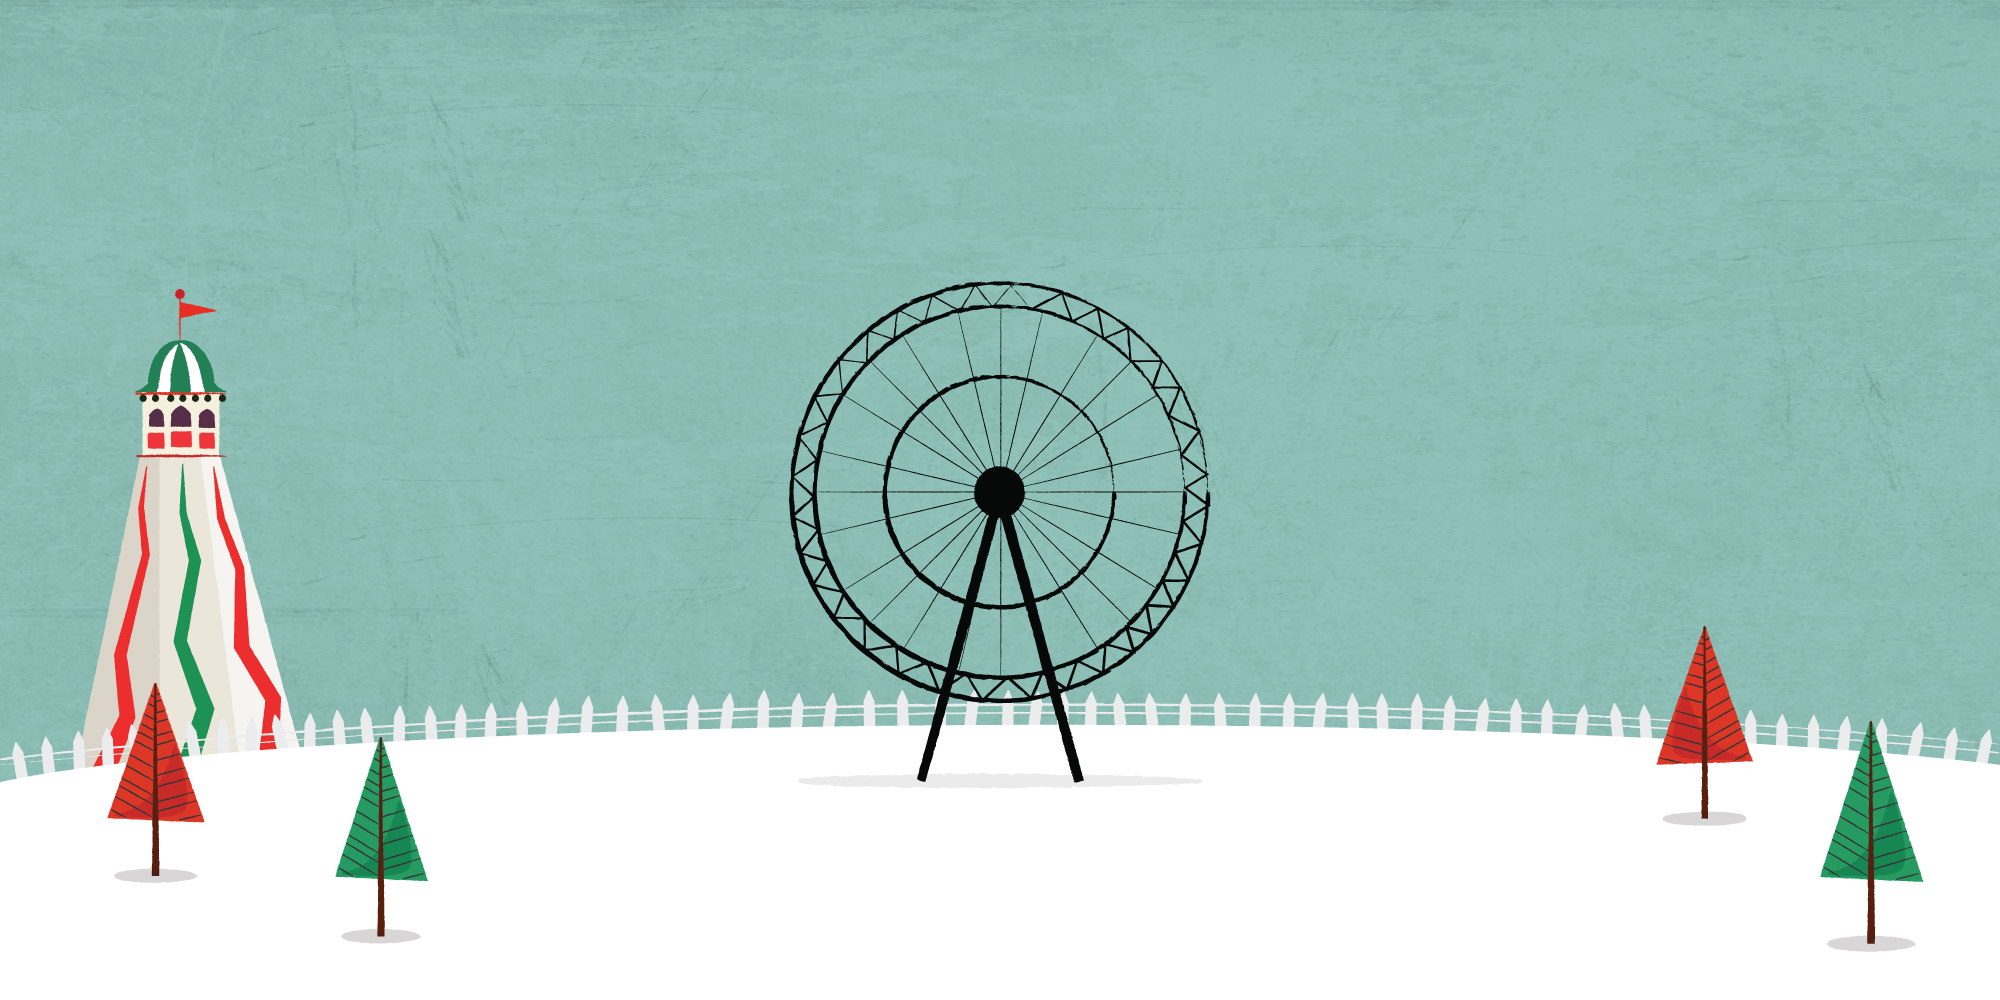
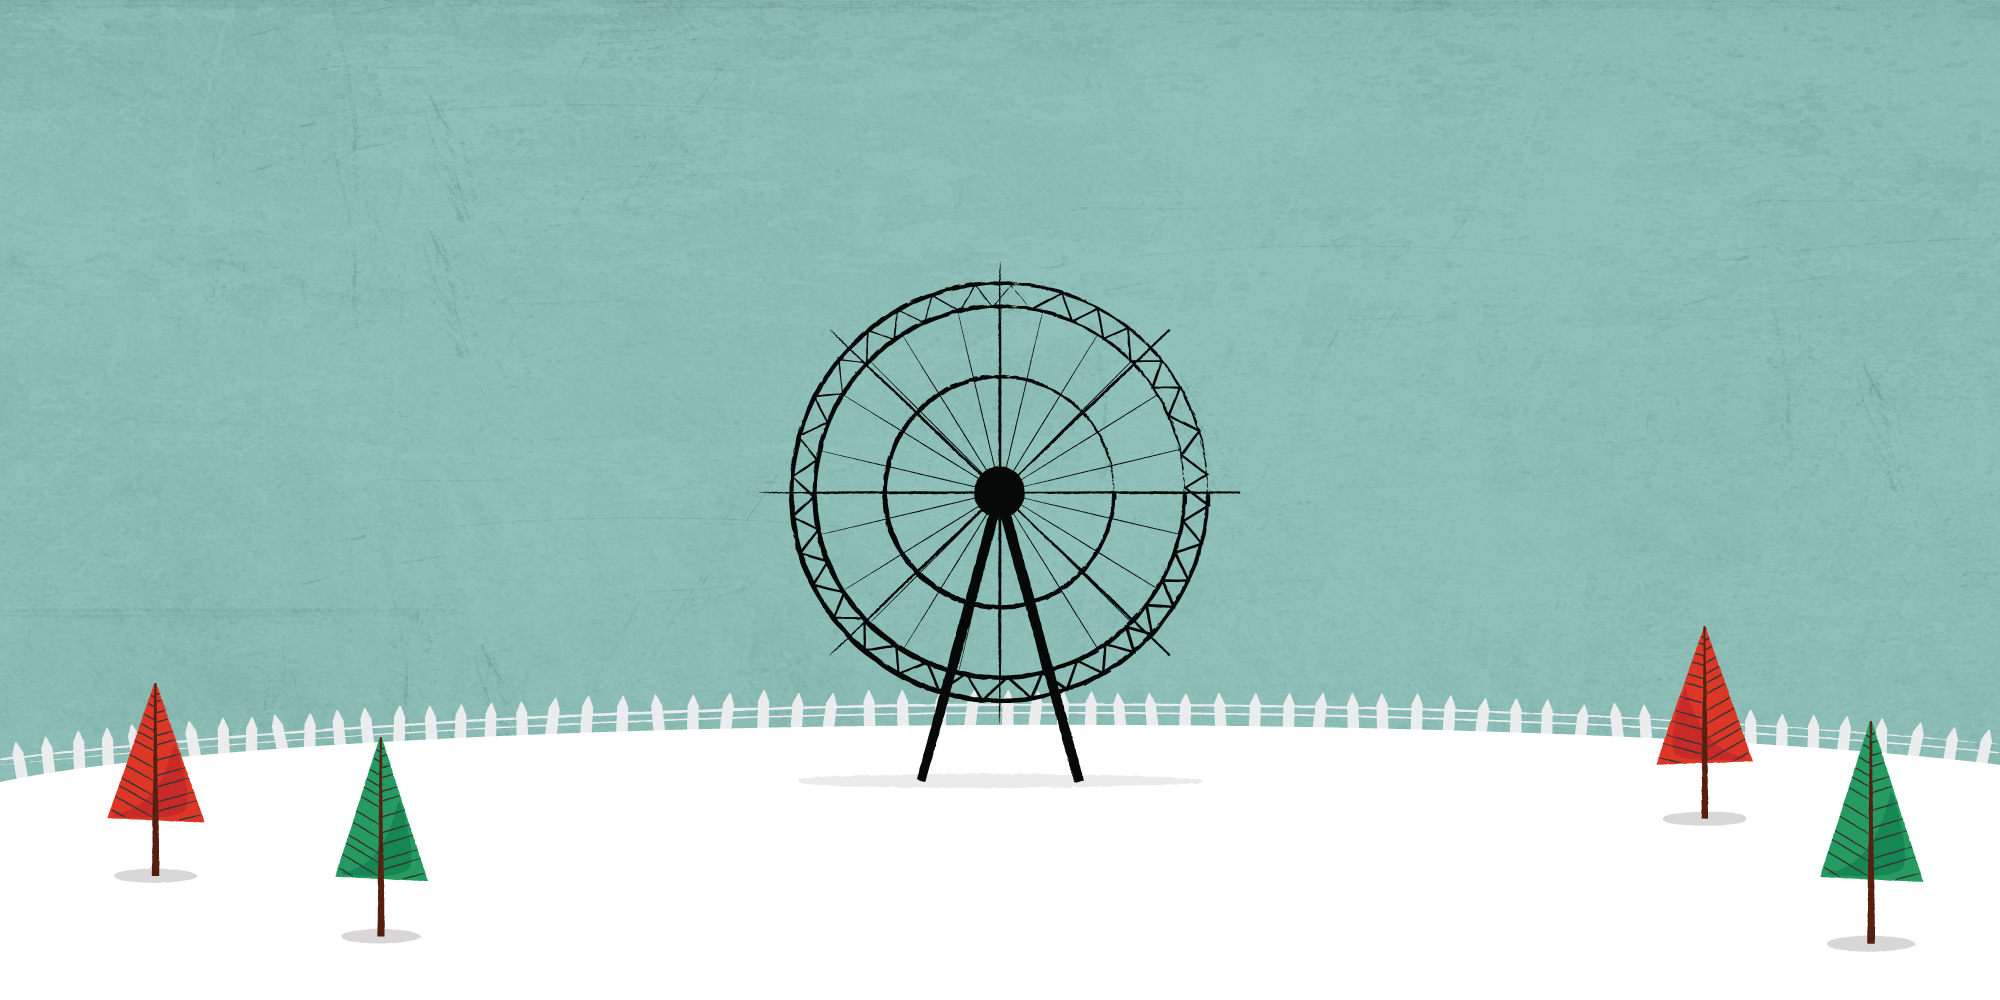
dwdw
d

Changed region(s): [[0.031, 0.341, 0.155, 0.775]]

diff --git a/sketch.js b/sketch.js
@@ -1,4 +1,4 @@
-var bg, wheel1, wheel2, flag;
+var bg, wheel1, wheel2, castel1, castel2, flag;
 
 function setup(){
    createCanvas(2000,1000);
@@ -6,6 +6,8 @@ function setup(){
    bg = loadImage("bg.png");
    wheel1 = loadImage("wheel1.png");
    wheel2 = loadImage("wheel2.png"); 
+   castel1 = loadImage("castel1.png");
+   castel2 = loadImage("castel2.png"); 
    flag = loadImage("flag.png");
 }
 
@@ -20,7 +22,7 @@ function draw(){
    var timing2 = (new Date()%duration2)/duration2;
    
    noCursor();
-   
+
    var t1 = (new Date()%15000)/15000;
    var t2 = (new Date()%6000)/6000;
 
